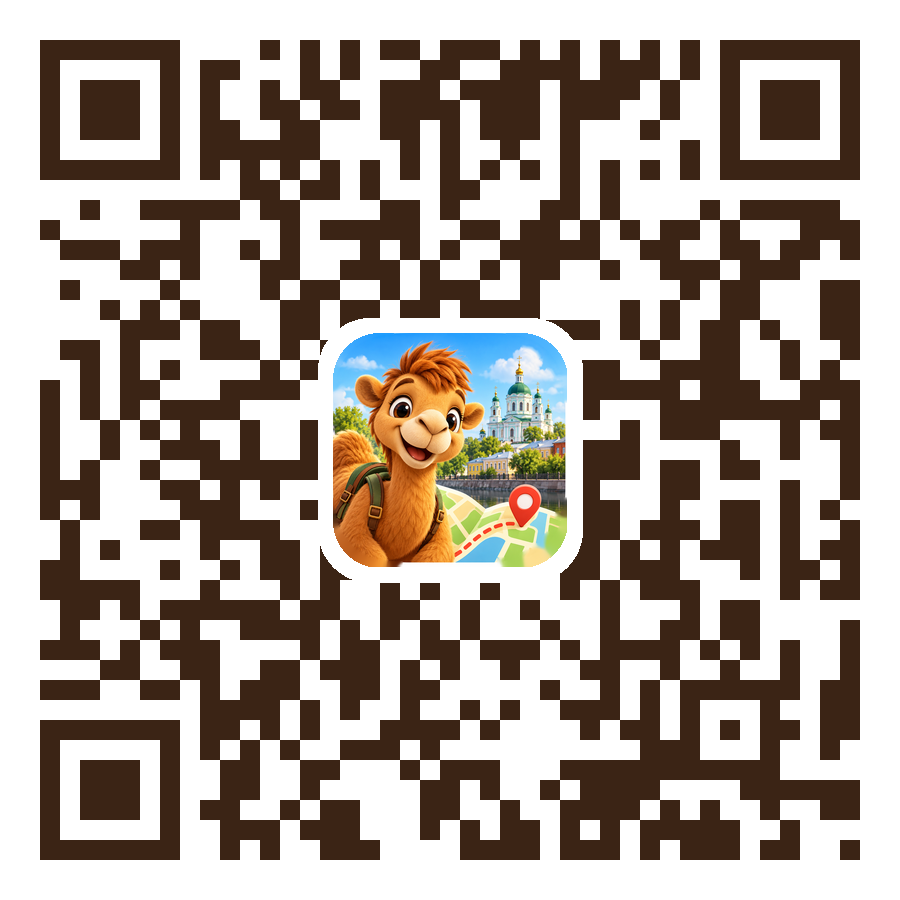
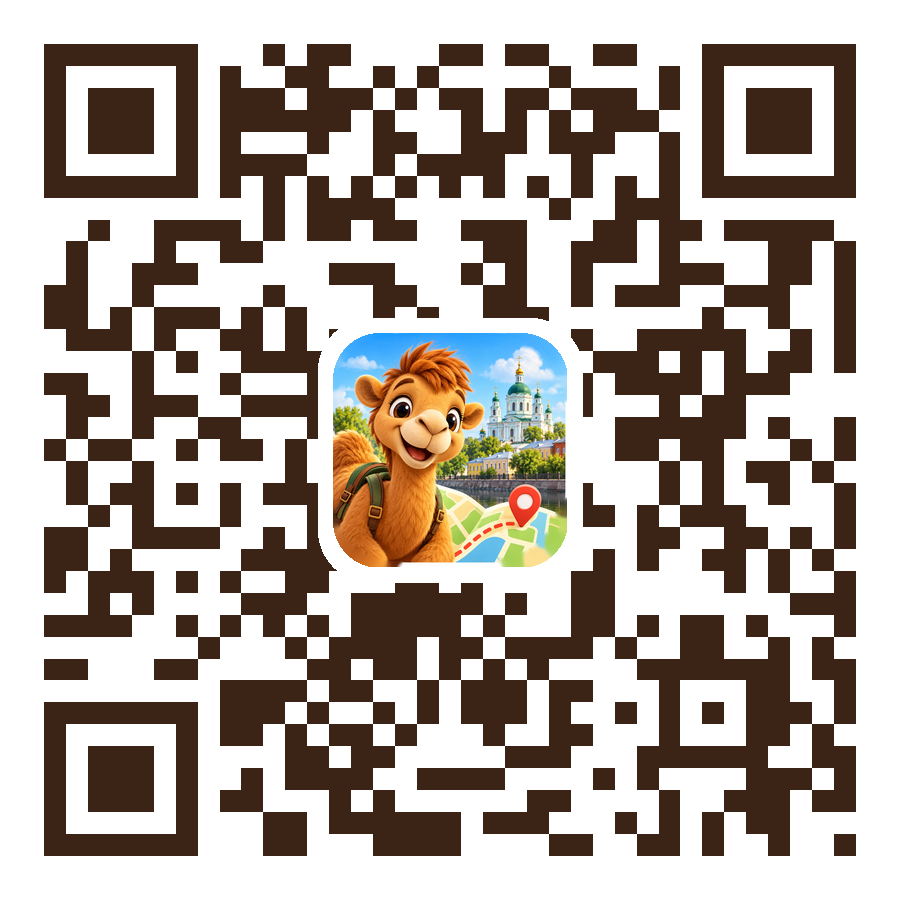
Main address malenkiy-karavan.ru (1.18)
GitHub never issued a certificate for the Cyrillic домен (its DNS check
kept failing although the records resolve worldwide), so the site moves
to malenkiy-karavan.ru: CNAME, canonical and link-card URLs, sitemap,
robots.txt, the open-in-browser address, the reviews function's allowed
origin and a new QR code to the walk.

Claude-Session: https://claude.ai/code/session_01M1J6kMihQE3n5EQp18fsrb

diff --git a/index.html b/index.html
@@ -6,7 +6,7 @@
   <meta name="theme-color" content="#ff6a1f">
   <meta name="description" content="Бесплатная прогулка-квест по Троицку (Челябинская область) для детей 4–7 лет с родителями: верблюжонок Троша ведёт по 9 местам исторического центра — рассказы, вопросы, игры, фото и грамота. Прямо в браузере телефона.">
   <title>Маленький караван — прогулка-квест по Троицку для детей 4–7 лет</title>
-  <link rel="canonical" href="https://xn----7sbbaalryjidglrj8b2n.xn--p1ai/">
+  <link rel="canonical" href="https://malenkiy-karavan.ru/">
   <meta name="robots" content="index, follow">
   <link rel="icon" href="site/images/icon.png">
   <meta property="og:type" content="website">
@@ -14,16 +14,16 @@
   <meta property="og:locale" content="ru_RU">
   <meta property="og:title" content="Маленький караван — прогулка по Троицку для детей">
   <meta property="og:description" content="Помоги верблюжонку Троше найти пропавшие вещи! Интерактивная прогулка для детей 4–7 лет с родителями.">
-  <meta property="og:url" content="https://xn----7sbbaalryjidglrj8b2n.xn--p1ai/">
-  <meta property="og:image" content="https://xn----7sbbaalryjidglrj8b2n.xn--p1ai/site/images/og.jpg">
+  <meta property="og:url" content="https://malenkiy-karavan.ru/">
+  <meta property="og:image" content="https://malenkiy-karavan.ru/site/images/og.jpg">
   <meta property="og:image:type" content="image/jpeg">
   <meta property="og:image:width" content="1200">
   <meta property="og:image:height" content="630">
   <meta name="twitter:card" content="summary_large_image">
-  <meta property="vk:image" content="https://xn----7sbbaalryjidglrj8b2n.xn--p1ai/site/images/og.jpg">
-  <link rel="image_src" href="https://xn----7sbbaalryjidglrj8b2n.xn--p1ai/site/images/og.jpg">
+  <meta property="vk:image" content="https://malenkiy-karavan.ru/site/images/og.jpg">
+  <link rel="image_src" href="https://malenkiy-karavan.ru/site/images/og.jpg">
   <!-- Для поисковиков: что это за прогулка и где её точки (schema.org). Точки — из data/route.json. -->
-  <script type="application/ld+json">{"@context": "https://schema.org", "@graph": [{"@type": "WebSite", "@id": "https://xn----7sbbaalryjidglrj8b2n.xn--p1ai/#site", "url": "https://xn----7sbbaalryjidglrj8b2n.xn--p1ai/", "name": "Маленький караван", "inLanguage": "ru"}, {"@type": "TouristTrip", "@id": "https://xn----7sbbaalryjidglrj8b2n.xn--p1ai/#trip", "name": "Маленький караван — прогулка по Троицку для детей", "description": "Бесплатная интерактивная прогулка-квест по историческому центру Троицка для детей 4–7 лет с родителями: верблюжонок Троша ведёт по карте, на каждой точке — рассказ, вопрос и игра.", "url": "https://xn----7sbbaalryjidglrj8b2n.xn--p1ai/", "touristType": ["Семьи с детьми", "Дети 4–7 лет"], "isAccessibleForFree": true, "inLanguage": "ru", "image": "https://xn----7sbbaalryjidglrj8b2n.xn--p1ai/site/images/og.jpg", "offers": {"@type": "Offer", "price": "0", "priceCurrency": "RUB", "url": "https://xn----7sbbaalryjidglrj8b2n.xn--p1ai/progulka/"}, "itinerary": {"@type": "ItemList", "numberOfItems": 9, "itemListElement": [{"@type": "ListItem", "position": 1, "item": {"@type": "TouristAttraction", "name": "Памятный камень Троицкой крепости", "geo": {"@type": "GeoCoordinates", "latitude": 54.077456, "longitude": 61.556294}, "address": {"@type": "PostalAddress", "addressLocality": "Троицк", "addressRegion": "Челябинская область", "addressCountry": "RU"}}}, {"@type": "ListItem", "position": 2, "item": {"@type": "TouristAttraction", "name": "Свято-Троицкий собор", "geo": {"@type": "GeoCoordinates", "latitude": 54.077776, "longitude": 61.557391}, "address": {"@type": "PostalAddress", "addressLocality": "Троицк", "addressRegion": "Челябинская область", "addressCountry": "RU"}}}, {"@type": "ListItem", "position": 3, "item": {"@type": "TouristAttraction", "name": "Бронзовый верблюд", "geo": {"@type": "GeoCoordinates", "latitude": 54.081621, "longitude": 61.561152}, "address": {"@type": "PostalAddress", "addressLocality": "Троицк", "addressRegion": "Челябинская область", "addressCountry": "RU"}}}, {"@type": "ListItem", "position": 4, "item": {"@type": "TouristAttraction", "name": "Торговые ряды", "geo": {"@type": "GeoCoordinates", "latitude": 54.081813, "longitude": 61.560374}, "address": {"@type": "PostalAddress", "addressLocality": "Троицк", "addressRegion": "Челябинская область", "addressCountry": "RU"}}}, {"@type": "ListItem", "position": 5, "item": {"@type": "TouristAttraction", "name": "Центральная площадь", "geo": {"@type": "GeoCoordinates", "latitude": 54.082807, "longitude": 61.559144}, "address": {"@type": "PostalAddress", "addressLocality": "Троицк", "addressRegion": "Челябинская область", "addressCountry": "RU"}}}, {"@type": "ListItem", "position": 6, "item": {"@type": "TouristAttraction", "name": "Скульптура «Городовой»", "geo": {"@type": "GeoCoordinates", "latitude": 54.083578, "longitude": 61.559513}, "address": {"@type": "PostalAddress", "addressLocality": "Троицк", "addressRegion": "Челябинская область", "addressCountry": "RU"}}}, {"@type": "ListItem", "position": 7, "item": {"@type": "TouristAttraction", "name": "Гостиница «Центральная»", "geo": {"@type": "GeoCoordinates", "latitude": 54.083992, "longitude": 61.559019}, "address": {"@type": "PostalAddress", "addressLocality": "Троицк", "addressRegion": "Челябинская область", "addressCountry": "RU"}}}, {"@type": "ListItem", "position": 8, "item": {"@type": "TouristAttraction", "name": "Памятник Крылову", "geo": {"@type": "GeoCoordinates", "latitude": 54.085255, "longitude": 61.558237}, "address": {"@type": "PostalAddress", "addressLocality": "Троицк", "addressRegion": "Челябинская область", "addressCountry": "RU"}}}, {"@type": "ListItem", "position": 9, "item": {"@type": "TouristAttraction", "name": "Пассаж братьев Яушевых", "geo": {"@type": "GeoCoordinates", "latitude": 54.086813, "longitude": 61.560445}, "address": {"@type": "PostalAddress", "addressLocality": "Троицк", "addressRegion": "Челябинская область", "addressCountry": "RU"}}}]}}]}</script>
+  <script type="application/ld+json">{"@context": "https://schema.org", "@graph": [{"@type": "WebSite", "@id": "https://malenkiy-karavan.ru/#site", "url": "https://malenkiy-karavan.ru/", "name": "Маленький караван", "inLanguage": "ru"}, {"@type": "TouristTrip", "@id": "https://malenkiy-karavan.ru/#trip", "name": "Маленький караван — прогулка по Троицку для детей", "description": "Бесплатная интерактивная прогулка-квест по историческому центру Троицка для детей 4–7 лет с родителями: верблюжонок Троша ведёт по карте, на каждой точке — рассказ, вопрос и игра.", "url": "https://malenkiy-karavan.ru/", "touristType": ["Семьи с детьми", "Дети 4–7 лет"], "isAccessibleForFree": true, "inLanguage": "ru", "image": "https://malenkiy-karavan.ru/site/images/og.jpg", "offers": {"@type": "Offer", "price": "0", "priceCurrency": "RUB", "url": "https://malenkiy-karavan.ru/progulka/"}, "itinerary": {"@type": "ItemList", "numberOfItems": 9, "itemListElement": [{"@type": "ListItem", "position": 1, "item": {"@type": "TouristAttraction", "name": "Памятный камень Троицкой крепости", "geo": {"@type": "GeoCoordinates", "latitude": 54.077456, "longitude": 61.556294}, "address": {"@type": "PostalAddress", "addressLocality": "Троицк", "addressRegion": "Челябинская область", "addressCountry": "RU"}}}, {"@type": "ListItem", "position": 2, "item": {"@type": "TouristAttraction", "name": "Свято-Троицкий собор", "geo": {"@type": "GeoCoordinates", "latitude": 54.077776, "longitude": 61.557391}, "address": {"@type": "PostalAddress", "addressLocality": "Троицк", "addressRegion": "Челябинская область", "addressCountry": "RU"}}}, {"@type": "ListItem", "position": 3, "item": {"@type": "TouristAttraction", "name": "Бронзовый верблюд", "geo": {"@type": "GeoCoordinates", "latitude": 54.081621, "longitude": 61.561152}, "address": {"@type": "PostalAddress", "addressLocality": "Троицк", "addressRegion": "Челябинская область", "addressCountry": "RU"}}}, {"@type": "ListItem", "position": 4, "item": {"@type": "TouristAttraction", "name": "Торговые ряды", "geo": {"@type": "GeoCoordinates", "latitude": 54.081813, "longitude": 61.560374}, "address": {"@type": "PostalAddress", "addressLocality": "Троицк", "addressRegion": "Челябинская область", "addressCountry": "RU"}}}, {"@type": "ListItem", "position": 5, "item": {"@type": "TouristAttraction", "name": "Центральная площадь", "geo": {"@type": "GeoCoordinates", "latitude": 54.082807, "longitude": 61.559144}, "address": {"@type": "PostalAddress", "addressLocality": "Троицк", "addressRegion": "Челябинская область", "addressCountry": "RU"}}}, {"@type": "ListItem", "position": 6, "item": {"@type": "TouristAttraction", "name": "Скульптура «Городовой»", "geo": {"@type": "GeoCoordinates", "latitude": 54.083578, "longitude": 61.559513}, "address": {"@type": "PostalAddress", "addressLocality": "Троицк", "addressRegion": "Челябинская область", "addressCountry": "RU"}}}, {"@type": "ListItem", "position": 7, "item": {"@type": "TouristAttraction", "name": "Гостиница «Центральная»", "geo": {"@type": "GeoCoordinates", "latitude": 54.083992, "longitude": 61.559019}, "address": {"@type": "PostalAddress", "addressLocality": "Троицк", "addressRegion": "Челябинская область", "addressCountry": "RU"}}}, {"@type": "ListItem", "position": 8, "item": {"@type": "TouristAttraction", "name": "Памятник Крылову", "geo": {"@type": "GeoCoordinates", "latitude": 54.085255, "longitude": 61.558237}, "address": {"@type": "PostalAddress", "addressLocality": "Троицк", "addressRegion": "Челябинская область", "addressCountry": "RU"}}}, {"@type": "ListItem", "position": 9, "item": {"@type": "TouristAttraction", "name": "Пассаж братьев Яушевых", "geo": {"@type": "GeoCoordinates", "latitude": 54.086813, "longitude": 61.560445}, "address": {"@type": "PostalAddress", "addressLocality": "Троицк", "addressRegion": "Челябинская область", "addressCountry": "RU"}}}]}}]}</script>
   <link rel="preconnect" href="https://fonts.googleapis.com">
   <link rel="preconnect" href="https://fonts.gstatic.com" crossorigin>
   <link href="https://fonts.googleapis.com/css2?family=Rubik:wght@500;600;700;800;900&display=swap" rel="stylesheet">
@@ -462,7 +462,7 @@
         <span class="apk">или <a href="https://github.com/qwest65/malenkiy-karavan/releases/latest/download/MalenkiyKaravan.apk">скачать APK напрямую</a></span></div>
       <div class="qr-card">
         <img src="images/qr.png" alt="QR-код: прогулка «Маленький караван»">
-        <span>📱 Открыли на компьютере? Наведите камеру телефона — прогулка откроется сразу. Или наберите в браузере <b>маленький-караван.рф</b></span>
+        <span>📱 Открыли на компьютере? Наведите камеру телефона — прогулка откроется сразу. Или наберите в браузере <b>malenkiy-karavan.ru</b></span>
       </div>
     </div>
 

diff --git a/progulka/index.html b/progulka/index.html
@@ -6,25 +6,25 @@
   <meta name="theme-color" content="#f6ebd6">
   <title>Прогулка с Трошей — Маленький караван, Троицк</title>
   <meta name="description" content="Начните прогулку по Троицку с верблюжонком Трошей: карта, подсказки голосом, рассказы и игры на 9 точках. Для детей 4–7 лет с родителями, бесплатно.">
-  <link rel="canonical" href="https://xn----7sbbaalryjidglrj8b2n.xn--p1ai/progulka/">
+  <link rel="canonical" href="https://malenkiy-karavan.ru/progulka/">
   <!-- Красивая карточка ссылки в Telegram, ВК, MAX и WhatsApp. Картинка — лёгкий JPEG: некоторые парсеры пропускают тяжёлые картинки. -->
   <meta property="og:type" content="website">
   <meta property="og:locale" content="ru_RU">
   <meta property="og:site_name" content="Маленький караван">
-  <meta property="og:url" content="https://xn----7sbbaalryjidglrj8b2n.xn--p1ai/progulka/">
+  <meta property="og:url" content="https://malenkiy-karavan.ru/progulka/">
   <meta property="og:title" content="Маленький караван — прогулка с Трошей">
   <meta property="og:description" content="Помоги верблюжонку Троше найти пропавшие вещи! Откройте ссылку на телефоне и идите гулять по Троицку: Троша сам расскажет, куда идти.">
-  <meta property="og:image" content="https://xn----7sbbaalryjidglrj8b2n.xn--p1ai/images/og.jpg">
-  <meta property="og:image:secure_url" content="https://xn----7sbbaalryjidglrj8b2n.xn--p1ai/images/og.jpg">
+  <meta property="og:image" content="https://malenkiy-karavan.ru/images/og.jpg">
+  <meta property="og:image:secure_url" content="https://malenkiy-karavan.ru/images/og.jpg">
   <meta property="og:image:type" content="image/jpeg">
   <meta property="og:image:width" content="1200">
   <meta property="og:image:height" content="630">
   <meta property="og:image:alt" content="Верблюжонок Троша на фоне Свято-Троицкого собора">
   <meta name="twitter:card" content="summary_large_image">
-  <meta name="twitter:image" content="https://xn----7sbbaalryjidglrj8b2n.xn--p1ai/images/og.jpg">
-  <meta property="vk:image" content="https://xn----7sbbaalryjidglrj8b2n.xn--p1ai/images/og.jpg">
+  <meta name="twitter:image" content="https://malenkiy-karavan.ru/images/og.jpg">
+  <meta property="vk:image" content="https://malenkiy-karavan.ru/images/og.jpg">
   <!-- Старый способ указать картинку: его до сих пор читают некоторые парсеры (VK, OK). -->
-  <link rel="image_src" href="https://xn----7sbbaalryjidglrj8b2n.xn--p1ai/images/og.jpg">
+  <link rel="image_src" href="https://malenkiy-karavan.ru/images/og.jpg">
   <link rel="icon" href="../icons/favicon.png">
   <link rel="apple-touch-icon" href="../icons/apple-touch-icon.png">
   <meta name="apple-mobile-web-app-title" content="Маленький караван">

diff --git a/reviews/index.js b/reviews/index.js
@@ -14,12 +14,12 @@
  * Переменные окружения функции:
  *   GITHUB_TOKEN   — токен GitHub с правом Issues: Read and write на репозиторий отзывов
  *   REVIEWS_REPO   — закрытый репозиторий отзывов (по умолчанию qwest65/malenkiy-karavan-otzyvy)
- *   ALLOW_ORIGIN   — откуда разрешено присылать отзывы (по умолчанию https://маленький-караван.рф)
+ *   ALLOW_ORIGIN   — откуда разрешено присылать отзывы (по умолчанию https://malenkiy-karavan.ru)
  */
 'use strict';
 
 const REPO = process.env.REVIEWS_REPO || 'qwest65/malenkiy-karavan-otzyvy';
-const ORIGIN = process.env.ALLOW_ORIGIN || 'https://xn----7sbbaalryjidglrj8b2n.xn--p1ai';
+const ORIGIN = process.env.ALLOW_ORIGIN || 'https://malenkiy-karavan.ru';
 const MAX_NAME = 40;
 const MAX_TEXT = 1000;
 const NET_MS = 5000;

diff --git a/progulka/app.js b/progulka/app.js
@@ -6,7 +6,7 @@
 'use strict';
 
 /** Номер веб-версии: виден внизу главного экрана, чтобы понять, обновилось ли приложение. */
-const APP_VERSION = '1.17';
+const APP_VERSION = '1.18';
 const STORE_KEY = 'karavan.journey2';
 const HINT_KEY = 'karavan.installHint';
 const OPENS_KEY = 'karavan.opens';
@@ -1746,7 +1746,7 @@ window.addEventListener('beforeinstallprompt', e => {
   if (S.screen === 'home') render();
 });
 
-const APP_URL = 'https://xn----7sbbaalryjidglrj8b2n.xn--p1ai/progulka/';
+const APP_URL = 'https://malenkiy-karavan.ru/progulka/';
 /** Встроенные браузеры Telegram, ВК, MAX, Instagram и т. п.: там часто нет геопозиции и звука. */
 const inAppBrowser = /Telegram|VKClient|vkontakte|Instagram|FBAN|FBAV|OKApp|OneMe|; wv\)/i.test(navigator.userAgent);
 

diff --git a/site/index.html b/site/index.html
@@ -5,11 +5,11 @@
   <meta name="viewport" content="width=device-width,initial-scale=1">
   <title>Маленький караван</title>
   <meta name="robots" content="noindex">
-  <link rel="canonical" href="https://xn----7sbbaalryjidglrj8b2n.xn--p1ai/">
+  <link rel="canonical" href="https://malenkiy-karavan.ru/">
   <meta http-equiv="refresh" content="0; url=../">
   <script>location.replace('../' + location.hash);</script>
 </head>
 <body>
-  <p>Сайт проекта переехал: <a href="../">маленький-караван.рф</a></p>
+  <p>Сайт проекта переехал: <a href="../">malenkiy-karavan.ru</a></p>
 </body>
 </html>

diff --git a/progulka/sw.js b/progulka/sw.js
@@ -3,7 +3,7 @@
  * сохраняется в телефоне, вместе со своей картой Троицка (папка map/).
  * После любых правок увеличьте VERSION, чтобы телефоны забрали новую версию.
  */
-const VERSION = 'v23';
+const VERSION = 'v24';
 // Своя приставка: на том же адресе qwest65.github.io раньше жила старая копия (karavan-app-…).
 const APP_CACHE = `karavan-web-${VERSION}`;
 const FONT_CACHE = 'karavan-fonts';

diff --git a/tools/make_qr.py b/tools/make_qr.py
@@ -4,8 +4,7 @@
     pip install qrcode pillow
     python3 tools/make_qr.py
 
-Адрес — в URL ниже. В QR-код он записан латиницей (xn--…): так его прочитает любая камера,
-а телефон откроет прогулку на маленький-караван.рф.
+Адрес — в URL ниже: прогулка на malenkiy-karavan.ru.
 """
 from pathlib import Path
 
@@ -13,7 +12,7 @@ import qrcode
 from PIL import Image, ImageDraw
 
 ROOT = Path(__file__).resolve().parents[1]
-URL = "https://xn----7sbbaalryjidglrj8b2n.xn--p1ai/progulka/"
+URL = "https://malenkiy-karavan.ru/progulka/"
 SIZE = 900
 COLOR = (59, 36, 21)
 
